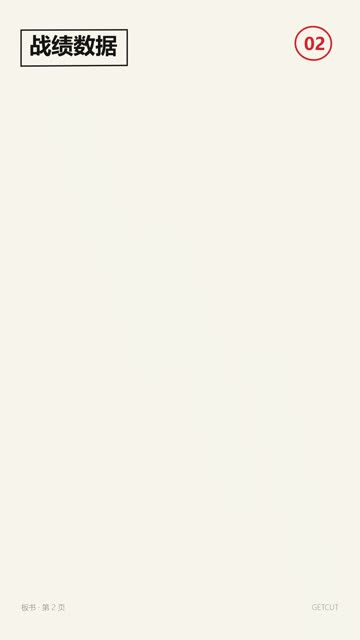
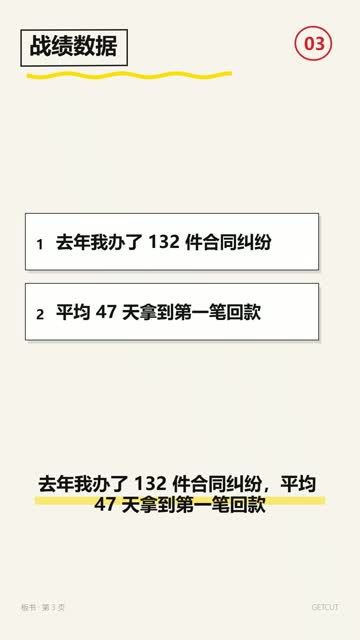
feat(style): 按用途重排为 5 套，删掉版式选择器
客户反馈：模板太多、没逻辑、版式选择器多余。
- 删掉「版式：自动/大字/数字/内容」控件（手机与桌面），内部仍自动轮换
- 风格从 8 套砍到 5 套，按用途命名并在卡片上写明适用场景：
  冲击大字（开场抛痛点）/ 白板讲解（讲方法步骤）/ 数据说服（算账讲回报）/
  权威播报（立信任讲案例）/ 杂志访谈（专业形象）
- 卡片新增一行「适合：xxx」，客户不用猜
- 重出白板缩略图（之前是空白）
验证：手机端选模板页 5 张卡片，用途文案正常显示

diff --git a/app/src/MobileApp.tsx b/app/src/MobileApp.tsx
@@ -11,15 +11,13 @@ import { exportJianyingDraft } from './lib/jianying';
 type Choice = ThemeName | 'auto';
 type Step = 'write' | 'style' | 'run' | 'done';
 
-const STYLES: { id: Choice; name: string; hint: string; thumb?: string }[] = [
-  { id: 'poster', name: '大字报', hint: '黑金 · 一屏一句', thumb: 'style-thumbs/poster.jpg' },
-  { id: 'magazine', name: '杂志', hint: '暖纸 · 印章红', thumb: 'style-thumbs/magazine.jpg' },
-  { id: 'dashboard', name: '数据', hint: '深蓝 · 数字图表', thumb: 'style-thumbs/dashboard.jpg' },
-  { id: 'newsroom', name: '新闻播报', hint: 'LIVE 条 · 信息板', thumb: 'style-thumbs/newsroom.jpg' },
-  { id: 'marker', name: '白板', hint: '马克笔 · 手写', thumb: 'style-thumbs/marker.jpg' },
-  { id: 'swiss', name: '极简', hint: '栅格 · 大留白', thumb: 'style-thumbs/swiss.jpg' },
-  { id: 'broadsheet', name: '报纸', hint: '报头 · 双栏', thumb: 'style-thumbs/broadsheet.jpg' },
-  { id: 'cover', name: '封面', hint: '刊名 · 条形码', thumb: 'style-thumbs/cover.jpg' },
+// 按"这条片子要干什么"组织，不按长相起名。客户先想用途，再挑长相。
+const STYLES: { id: Choice; name: string; hint: string; use: string; thumb?: string }[] = [
+  { id: 'poster', name: '冲击大字', hint: '一屏一句，最抓人', use: '开场抛痛点', thumb: 'style-thumbs/poster.jpg' },
+  { id: 'marker', name: '白板讲解', hint: '手写框 + 步骤卡', use: '讲方法 / 步骤', thumb: 'style-thumbs/marker.jpg' },
+  { id: 'dashboard', name: '数据说服', hint: '巨数字 + 对比', use: '算账 / 讲回报', thumb: 'style-thumbs/dashboard.jpg' },
+  { id: 'newsroom', name: '权威播报', hint: '电视新闻质感', use: '立信任 / 讲案例', thumb: 'style-thumbs/newsroom.jpg' },
+  { id: 'magazine', name: '杂志访谈', hint: '暖纸 + 印章红', use: '专业形象', thumb: 'style-thumbs/magazine.jpg' },
 ];
 
 const VOICES = [
@@ -50,7 +48,6 @@ export default function MobileApp() {
   const [step, setStep] = useState<Step>('write');
   const [text, setText] = useState('');
   const [choice, setChoice] = useState<Choice>('auto');
-  const [layout, setLayout] = useState<'auto' | 'big' | 'data' | 'content'>('auto');
   const [voice, setVoice] = useState(VOICES[0].id);
   const [music, setMusic] = useState(true);
   const [srcMode, setSrcMode] = useState<'paste' | 'ai' | 'link'>('paste');
@@ -165,9 +162,9 @@ export default function MobileApp() {
       const title = src.split(/[。！？\n]/)[0].slice(0, 14);
       const blob = await renderVideo(planned, theme, title, ({ stage: s, percent }) => {
         setStage(s); setPct(percent);
-      }, false, music, voice, '', liveCanvas, layout, (d) => {
+      }, false, music, voice, '', liveCanvas, 'auto', (d) => {
         void fetch('/api/diag', { method: 'POST', headers: { 'content-type': 'application/json' },
-          body: JSON.stringify({ ...d, ua: navigator.userAgent, src: 'mobile', style: theme, layout }) });
+          body: JSON.stringify({ ...d, ua: navigator.userAgent, src: 'mobile', style: theme, layout: 'auto' }) });
       });
       setSecs(Math.round((performance.now() - t0) / 1000));
       setUrl(URL.createObjectURL(blob));
@@ -183,7 +180,7 @@ export default function MobileApp() {
       setErr(msg);
       setStep('style');
       void fetch('/api/diag', { method: 'POST', headers: { 'content-type': 'application/json' },
-        body: JSON.stringify({ ok: false, error: msg, ua: navigator.userAgent, src: 'mobile', style: theme, layout }) });
+        body: JSON.stringify({ ok: false, error: msg, ua: navigator.userAgent, src: 'mobile', style: theme, layout: 'auto' }) });
     } finally {
       busy.current = false;
       setRunning(false);
@@ -293,20 +290,13 @@ export default function MobileApp() {
               <button key={s.id} className={`mcard ${choice === s.id ? 'on' : ''}`} onClick={() => setChoice(s.id)}>
                 {s.thumb ? <img src={s.thumb} alt="" /> : <span className="mnothumb" />}
                 <b>{s.name}</b>
-                <i>{s.hint}</i>
+                <i>适合：{s.use}</i>
+                <u>{s.hint}</u>
                 {choice === s.id ? <em>✓</em> : null}
               </button>
             ))}
           </div>
 
-          <div className="mrow">
-            <label>版式</label>
-            <div className="mseg2">
-              {([['auto', '自动轮换'], ['big', '大字'], ['data', '数字'], ['content', '内容']] as const).map(([id, name]) => (
-                <button key={id} className={layout === id ? 'on' : ''} onClick={() => setLayout(id)}>{name}</button>
-              ))}
-            </div>
-          </div>
 
           <div className="mrow">
             <label>声音</label>
@@ -506,17 +496,15 @@ export default function MobileApp() {
         .mcard img, .mnothumb { display: block; width: 100%; aspect-ratio: 3/4; object-fit: cover; }
         .mnothumb { background: linear-gradient(160deg, #2C2C36, #17171C); }
         .mcard b { display: block; font-size: 15px; padding: 8px 10px 0; }
-        .mcard i { display: block; font-style: normal; font-size: 12px; color: var(--dim); padding: 2px 10px 0; }
+        .mcard i { display: block; font-style: normal; font-size: 12px; color: var(--gold); padding: 3px 10px 0; }
+        .mcard u { display: block; text-decoration: none; font-size: 11px; color: var(--dim); padding: 2px 10px 0; }
         .mcard.on { border-color: var(--gold); box-shadow: 0 0 0 2px rgba(240,180,41,.35); }
         .mcard em { position: absolute; top: 8px; right: 8px; width: 24px; height: 24px; border-radius: 50%;
           background: var(--gold); color: #171207; font-style: normal; font-size: 14px; font-weight: 900;
           display: grid; place-items: center; }
 
         .mrow { display: flex; align-items: center; gap: 10px; }
-        .mseg2 { display: flex; flex: 1; gap: 4px; }
-        .mseg2 button { flex: 1; background: var(--panel); border: 1px solid var(--line); color: var(--dim);
-          font: inherit; font-size: 13px; padding: 9px 4px; border-radius: 9px; }
-        .mseg2 button.on { border-color: var(--gold); color: var(--ink); font-weight: 700; }        .mrow label { font-size: 14px; color: var(--dim); white-space: nowrap; }
+        .mrow label { font-size: 14px; color: var(--dim); white-space: nowrap; }
         .mrow select { flex: 1; }
         .mcheck { display: flex; align-items: center; gap: 10px; font-size: 14px; color: var(--dim); }
         .mcheck input { width: 20px; height: 20px; accent-color: var(--gold); }
@@ -572,6 +560,8 @@ export default function MobileApp() {
     </div>
   );
 }
+
+
 
 
 

diff --git a/app/src/Studio.tsx b/app/src/Studio.tsx
@@ -1,4 +1,4 @@
-import { useEffect, useMemo, useRef, useState } from 'react';
+import { useEffect, useMemo, useRef, useState } from 'react';
 import { planScript, renderVideo } from './lib/render';
 import type { ThemeName, PlanBeat } from './lib/types';
 import {
@@ -11,14 +11,11 @@ type Choice = ThemeName | 'auto';
 
 const STYLES: { id: Choice; name: string; thumb?: string; preview?: string }[] = [
   { id: 'auto', name: '自动' },
-  { id: 'poster', name: '大字报', thumb: 'style-thumbs/poster.jpg', preview: 'style-previews/poster.mp4' },
-  { id: 'magazine', name: '杂志', thumb: 'style-thumbs/magazine.jpg', preview: 'style-previews/magazine.mp4' },
-  { id: 'dashboard', name: '数据', thumb: 'style-thumbs/dashboard.jpg' },
-  { id: 'newsroom', name: '播报', thumb: 'style-thumbs/newsroom.jpg', preview: 'style-previews/newsroom.mp4' },
-  { id: 'marker', name: '白板', thumb: 'style-thumbs/marker.jpg', preview: 'style-previews/marker.mp4' },
-  { id: 'swiss', name: '极简', thumb: 'style-thumbs/swiss.jpg', preview: 'style-previews/swiss.mp4' },
-  { id: 'broadsheet', name: '报纸', thumb: 'style-thumbs/broadsheet.jpg', preview: 'style-previews/broadsheet.mp4' },
-  { id: 'cover', name: '封面', thumb: 'style-thumbs/cover.jpg', preview: 'style-previews/cover.mp4' },
+  { id: 'poster', name: '冲击大字', thumb: 'style-thumbs/poster.jpg', preview: 'style-previews/poster.mp4' },
+  { id: 'marker', name: '白板讲解', thumb: 'style-thumbs/marker.jpg', preview: 'style-previews/marker.mp4' },
+  { id: 'dashboard', name: '数据说服', thumb: 'style-thumbs/dashboard.jpg' },
+  { id: 'newsroom', name: '权威播报', thumb: 'style-thumbs/newsroom.jpg', preview: 'style-previews/newsroom.mp4' },
+  { id: 'magazine', name: '杂志访谈', thumb: 'style-thumbs/magazine.jpg', preview: 'style-previews/magazine.mp4' },
 ];
 
 const STEPS = ['拆稿', '配音', '画帧', '合成', '封装'];
@@ -114,7 +111,6 @@ function Icon({ name }: { name: 'text' | 'style' | 'voice' | 'works' }) {
 export default function Studio() {
   const [text, setText] = useState('');
   const [choice, setChoice] = useState<Choice>('auto');
-  const [layout, setLayout] = useState<'auto' | 'big' | 'data' | 'content'>('auto');
   const [broll, setBroll] = useState(false);
   const [music, setMusic] = useState(true);
   const [voice, setVoice] = useState(VOICES[0].id);
@@ -228,7 +224,7 @@ export default function Studio() {
       const title = src.split(/[。！？\n]/)[0].slice(0, 14);
       const blob = await renderVideo(orderedPlan, theme, title, ({ stage: s, percent }) => {
         setStage(s); setPct(percent);
-      }, broll, music, voice, bgm, liveCanvas, layout);
+      }, broll, music, voice, bgm, liveCanvas, 'auto');
       setSecs(Math.round((performance.now() - t0) / 1000));
       setUrl(URL.createObjectURL(blob));
       setPct(100);
@@ -587,14 +583,6 @@ export default function Studio() {
 
           {tab === 'style' ? (
             <>
-              <div className="layout-row">
-                <span>版式</span>
-                <div className="layout-seg">
-                  {([['auto', '自动'], ['big', '大字'], ['data', '数字'], ['content', '内容']] as const).map(([id, name]) => (
-                    <button key={id} className={layout === id ? 'on' : ''} onClick={() => setLayout(id)}>{name}</button>
-                  ))}
-                </div>
-              </div>
               <div className="thumbs">
               {STYLES.map((s) => (
                 <button
@@ -1142,6 +1130,7 @@ export default function Studio() {
     </div>
   );
 }
+
 
 
 

diff --git a/docs/theme-cartoon.md b/docs/theme-cartoon.md
@@ -57,6 +57,35 @@ node scripts/render.mjs --script 文案.txt --theme cartoon
 - 需要数字的句子写在 `title`，`Highlight` 会自动把数字/金额染成橙色；
 - `compare` 类型要填 `left` / `right`（左边"你以为"，右边"其实是"）。
 
+## 真截图
+
+不画假 UI 了，直接把后台/产品截图塞进去：
+
+```bash
+node scripts/render.mjs --script 文案.txt --theme cartoon --screens demo/screens -o out/x.mp4
+```
+
+- `--screens` 目录里放 png / jpg / webp，按文件名排序，逐个贴到正片段落（跳过片头和章节页）；
+- 张数不够会循环复用；多了会按顺序分配；
+- 截图以 `objectFit: cover` 铺满卡片内容区，`phase` 翻面时轻微推到 1.02；
+- 底层字段是 `beat.screenshot`（`src/Video.tsx` 的 Beat 类型里已加），也可以在 props JSON 里手写。
+
+## 批量出片
+
+```bash
+node scripts/batch.mjs --topics demo/topics.txt --theme cartoon --screens demo/screens --out out/batch
+```
+
+`topics.txt` 一行一条，`|` 后面是文件名：
+
+```
+做AI短视频三个月，播放128万，私信零。第一个坑…| 01-避坑
+隔壁同行一条691万播放，他只有7000粉…| 02-钩子
+```
+
+串行跑，每条独立拆稿 / 配音 / 渲染，失败不中断，最后汇总成功/失败清单。
+一条 30~40 秒的片子本机约 **2 分 20 秒**（拆稿 + 配音 + 抓实拍 + 渲染），批量就越跑越顺。
+
 ## 已知限制
 
 - 截图是**画出来的假 UI**，不是真截图；要真截图得走 `broll` 字段，或后续加 `screenshot` 卡类型；

diff --git a/README.md b/README.md
@@ -23,6 +23,7 @@ node scripts/render.mjs --text "直接写文案" --theme magazine
 | `magazine` | 暖纸底 + 印章红，适合律师/咨询/知识 |
 | `poster` | 黑金、一屏一句，适合加盟/观点 |
 | `dashboard` | 深蓝数字面板，适合教培/测评 |
+| `cartoon` | 卡通主播 + 截图 + 大字幕，五种版面轮换；支持真截图 `--screens`，详见 `docs/theme-cartoon.md` |
 
 ## 一条片子是怎么出来的
 
